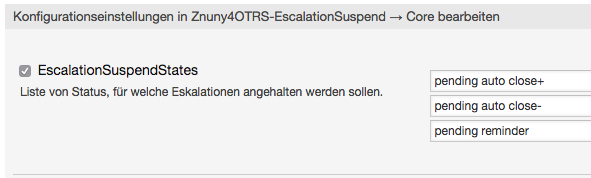
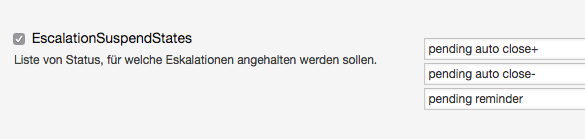
Ported to Znuny 6.1.

diff --git a/README.md b/README.md
@@ -1,19 +1,18 @@
 ![Znuny logo](https://znuny.com/assets/images/logo_small.png)
 
-![Build status](https://badge.proxy.znuny.com/Znuny4OTRS-EscalationSuspend/master)
+![Build status](https://badge.proxy.znuny.com/Znuny4OTRS-EscalationSuspend/rel-6_1)
 
-Znuny4OTRS-EscalationSuspend
-============================
+Znuny-EscalationSuspend
+=======================
 This add-on suspends the escalation when the ticket is in any of the configured states.
 
 **Prerequisites**
 
-- OTRS 6
-- [Znuny4OTRS-Repo](https://www.znuny.com/add-ons/znuny4otrs-repository)
+- Znuny 6.1
 
 **Installation**
 
-Download the [package](https://addons.znuny.com/api/addon_repos/public/1039/latest) and install it via admin interface -> package manager or use [Znuny4OTRS-Repo](https://www.znuny.com/add-ons/znuny4otrs-repository).
+Download the [package](https://addons.znuny.com/api/addon_repos/public/2108/latest) and install it via admin interface -> package manager.
 
 **Configuration**
 
@@ -21,11 +20,11 @@ No further configuration required.
 
 **Download**
 
-Download the [latest version](https://addons.znuny.com/api/addon_repos/public/1039/latest).
+Download the [latest version](https://addons.znuny.com/api/addon_repos/public/2108/latest).
 
 **Professional Support**
 
-For this add-on and for OTRS in general visit [www.znuny.com](https://www.znuny.com). Looking forward to hear from you!
+For this add-on and for Znuny in general visit [www.znuny.com](https://www.znuny.com). Looking forward to hear from you!
 
 Enjoy!
 

diff --git a/.github/ISSUE_TEMPLATE/bug.md b/.github/ISSUE_TEMPLATE/bug.md
@@ -1,38 +1,44 @@
 ---
 name: Bug report
 about: Create a report to help us improve.
-title: 'Bug - ???'
+title: 'Bug - [short text describing the problem]'
 labels: 'Bug, Clarification'
 assignees: ''
 ---
 
+<!--
+  You are amazing! 🚀
+  Thanks for reporting!
+  Please, DO NOT DELETE ANY TEXT from this template! (unless instructed).
+-->
+
+### Environment
+
+- OS:           <!-- [e.g. Windows, MacOS, Linux] -->
+- Browser:      <!-- [e. g. Chrome, Firefox, Safari] -->
+- OTRS version: <!-- [e. g. 6.0.15] -->
+
 ### Expected behavior
 
-A clear and concise description of what you expected to happen.
+<!-- A clear and concise description of what you expected to happen. -->
 
 ### Actual behavior
 
-A clear and concise description of what happened (the issue/bug/problem).
+<!-- A clear and concise description of what happened (the issue/bug/problem). -->
 
 ### How to reproduce
 
 Steps to reproduce the behavior:
 
 1. Go to '...'
-2. Click on '....'
-3. Scroll down to '....'
+2. Click on '...'
+3. Scroll down to '...'
 4. See error
-
-### Screenshots
-
-If applicable, add screenshots to help explain your problem.
-
-### Environment
-
-- OS: [e.g. Windows, MacOS, Linux]
-- Browser: [e. g. Chrome, Firefox, Safari]
-- OTRS version [e. g. 6.0.15]
 
 ### Additional information
 
-Add any other information about the problem here.
+<!-- Add any other information about the problem here. -->
+
+### Screenshots
+
+<!-- If applicable, add screenshots to help explain your problem. -->

diff --git a/doc/de/feature.md b/doc/de/feature.md
@@ -2,7 +2,7 @@
 
 Mit dieser Erweiterung kann die Eskalationsberechnung eines Tickets "angehalten" werden, solange es sich in einem vorher definierten Status befindet. Beim Setzen des vordefinierten Status vor Ablauf der Eskalationszeit verlängert sich die Lösungszeit um die Dauer, in der es sich in diesem Status befindet.
 
-Ein typischer Anwendungsfall ist, dass beim Warten auf einen Kunden die Eskalationsberechnung "angehalten" werden soll. Die entsprechenden Status können über die SysConfig (Gruppe: Znuny4OTRS-EscalationSuspend -> Untergruppe: EscalationSuspend) eingestellt werden. Standardmäßig sind die drei Status 'pending auto close+', 'pending auto close-' und 'pending reminder' eingetragen. Diese können individuell angepasst werden.
+Ein typischer Anwendungsfall ist, dass beim Warten auf einen Kunden die Eskalationsberechnung "angehalten" werden soll. Die entsprechenden Status können über die SysConfig eingestellt werden. Standardmäßig sind die drei Status 'pending auto close+', 'pending auto close-' und 'pending reminder' eingetragen. Diese können individuell angepasst werden.
 
 ![SuspendEscalatedTickets](doc/de/images/EscalationSuspendStates.png)
 

diff --git a/doc/en/feature.md b/doc/en/feature.md
@@ -3,7 +3,7 @@
 This add-on allows to pause the escalation of a ticket. To achieve this you just need to configure the states which fit to your situation/workflow via SysConfig.
 
 A typical use case is to suspend the escalation as long as you wait for a customer reply. Configure 'pending reminder' as the suspend state and you're done!
-To configure the state you need to go to Admin -> SysConfig -> Znuny4OTRS-EscalationSuspend -> EscalationSuspend. After the installation the states 'pending auto close+', 'pending auto close-' and 'pending reminder' are configured by default.
+After the installation the states 'pending auto close+', 'pending auto close-' and 'pending reminder' are configured by default.
 
 ![SuspendEscalatedTickets](doc/en/images/EscalationSuspendStates.png)
 
